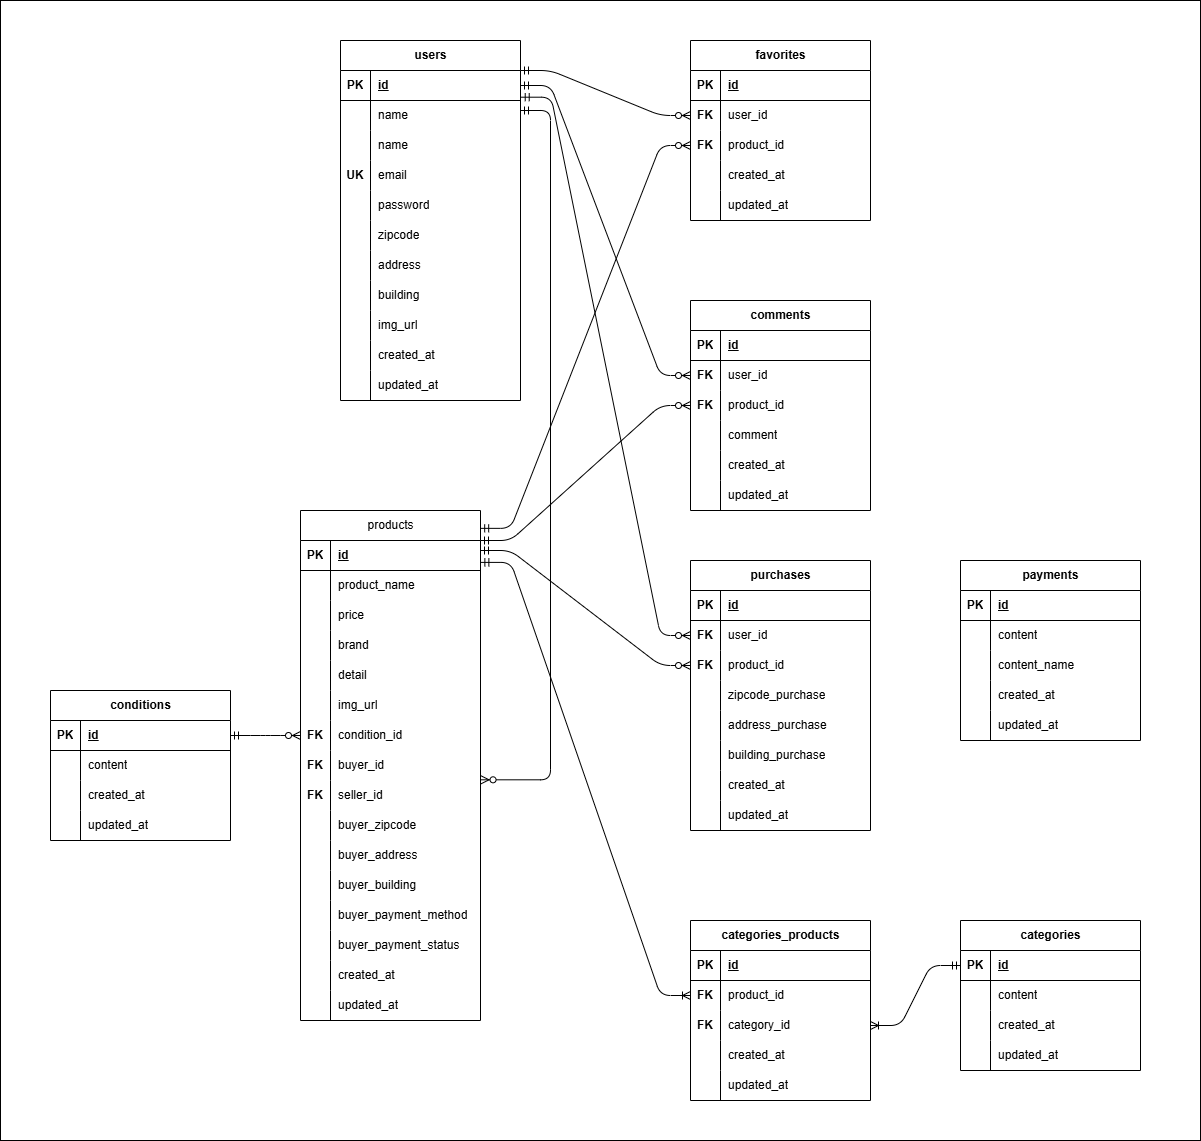
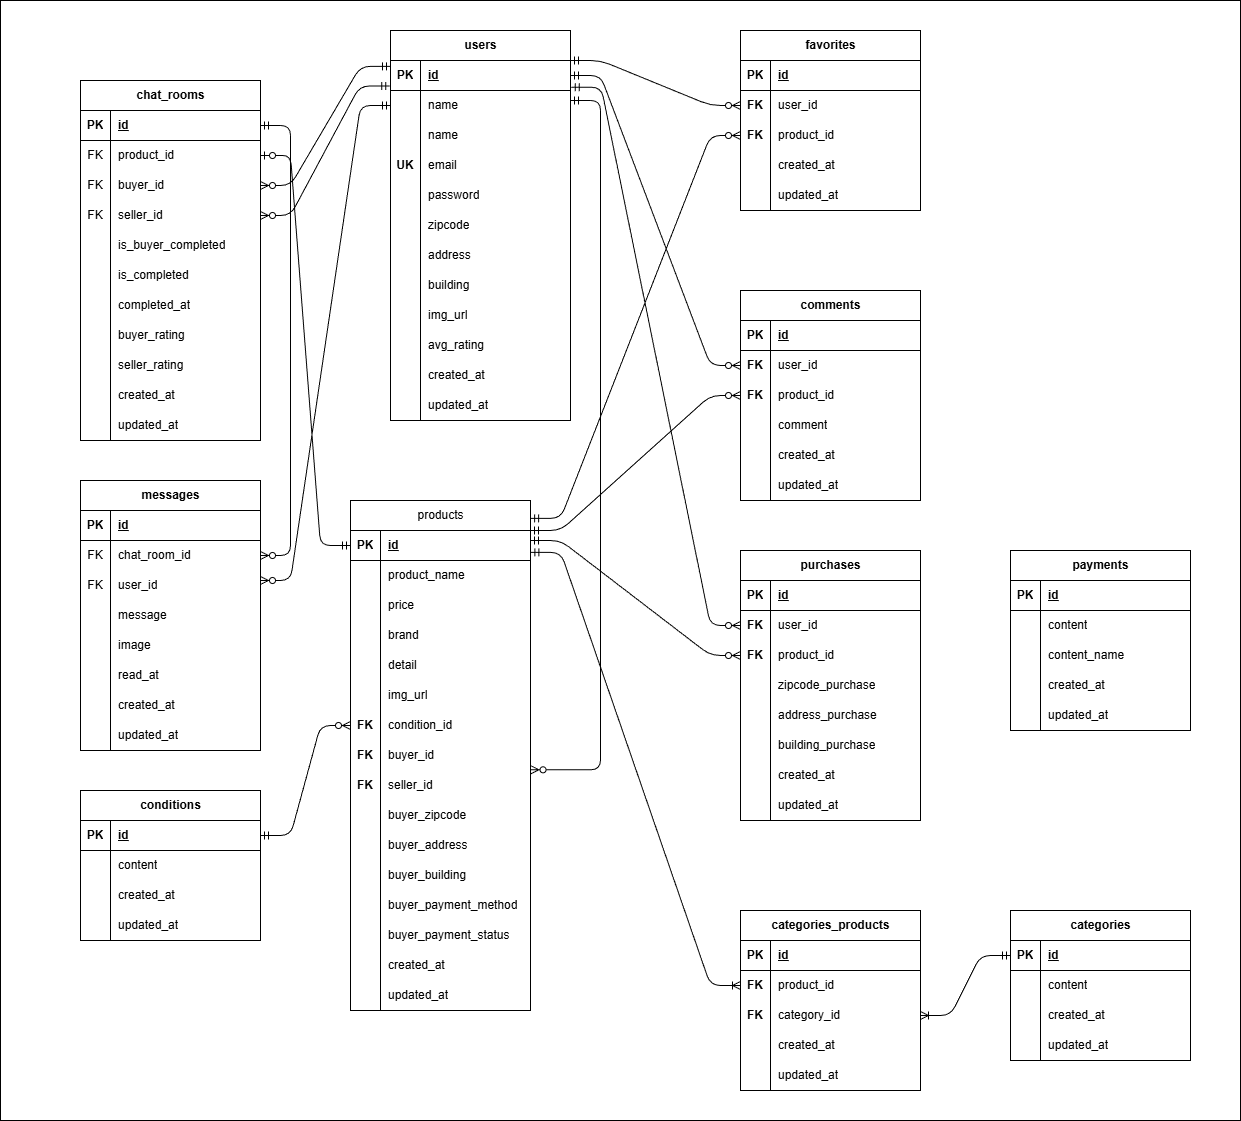
REAMME修正, ER図追加

diff --git a/README.md b/README.md
@@ -12,6 +12,10 @@ git clone git@github.com:hktooooo/free_market_app.git
 ```
 make init
 ```
+※ 権限エラーが出る場合は以下を実行してください。<br>
+```
+sudo chmod -R 777 src/*
+```
 
 ## SQLデータ
 .envファイルの環境変数は以下となっています。<br>
@@ -59,7 +63,7 @@ STRIPE_SECRET=(各自のSTRIPE_SECRETを記入)
 | address | varchar(255) |  |  |  |  |
 | building | varchar(255) |  |  |  |  |
 | img_url | varchar(255) |  |  |  |  |
-| rating | decimal |  |  |  |  |
+| avg_rating | decimal |  |  |  |  |
 | created_at | timestamp |  |  |  |  |
 | updated_at | timestamp |  |  |  |  |
 
@@ -155,6 +159,11 @@ STRIPE_SECRET=(各自のSTRIPE_SECRETを記入)
 | product_id | bigint |  |  | ◯ | products(id) |
 | buyer_id | bigint |  |  | ◯ | users(id) |
 | seller_id | bigint |  |  | ◯ | users(id) |
+| is_buyer_completed | boolean |  |  |  |  |
+| is_completed | boolean |  |  |  |  |
+| completed_at | timestamp |  |  |  |  |
+| buyer_rating | bigint |  |  |  |  |
+| seller_rating | bigint |  |  |  |  |
 | created_at | timestamp |  |  |  |  |
 | updated_at | timestamp |  |  |  |  |
 
@@ -242,7 +251,7 @@ DB_PASSWORD=root
 ```
 
 以下を PHPコンテナ内で実行 (docker-compose exec php bashでコンテナに入る)<br>
-空」にしたAPP_KEYに新たなテスト用のアプリケーションキーを加える<br>
+「空」にしたAPP_KEYに新たなテスト用のアプリケーションキーを加える<br>
 ```
 php artisan key:generate --env=testing
 ```
